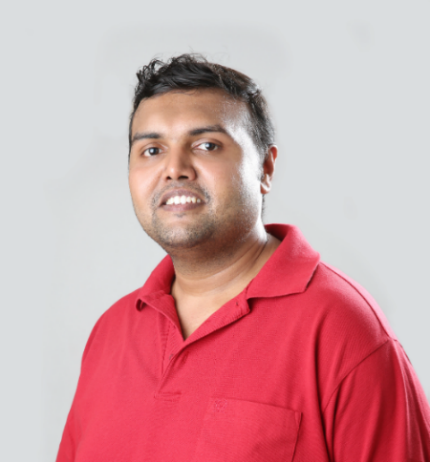
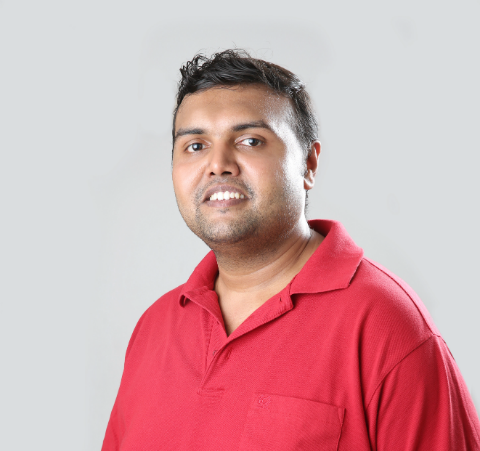
published new posts on web accessibility and html5 history and also naming things

diff --git a/_posts/2014-08-10-manipulate-browser-history-with-html5.html b/_posts/2014-08-10-manipulate-browser-history-with-html5.html
@@ -1,0 +1,142 @@
+---
+layout: post
+title:  "Manipulate Browser History Using HTML5 History API"
+date:   2014-08-06 14:47:19
+categories: "HTML5,History API"
+thumbImage: "/img/HTML5.png"
+author: "Aravind H.U"
+tags : "HTML5,History API,Session API"
+---
+<p>
+
+    HTML5 session history and navigation API basically inherits and extends the capabilities of the javascript history
+    object. Before Explaining session history and navigation API's let me describe what were the features which were
+    there in age old javascript history object.
+
+</p><p>
+    History object use to exhibit 3 behaviours, first one is the length() , which use to return the number of links in
+    the browser history stack.
+</p><p>
+    2nd one is forward() function which navigates to the next URL which was there in the browser if any, and last one is
+    the back() which just navigates to the previously visited page.
+</p><p>
+    HTML5 history and navigation API's adds some more behaviours,
+</p>
+<ol>
+    <li>
+        Add a URL to browser History stack.
+    </li>
+    <li>
+        Change the URL at the Top of the History stack.
+    </li>
+    <li>
+        Change the URL of the browser with out refreshing the page.
+    </li>
+    <li>
+        Allow access to catch the browser back button click event.
+    </li>
+</ol>
+
+<p>
+    From these behaviours we could observe, most of the issues that we were facing in the past when we build highly intractive AJAX based SPA ( single page application ) application are all solved .
+
+</p>
+<p>
+    We do not need to worry about having cool and complex URLs in AJAX applications, since we can manipulate the history API to load what ever URL that we want for every event .
+
+</p>
+<p>
+    Lets start experimenting some of the behaviours of new HTML5 history object .
+
+</p>
+<p>
+    The first most important method is pushState() method, It allows us to change the portion of the URL
+
+</p>
+<p>
+    Syntax ,
+</p>
+<div class="row">
+    <pre><code class="js">
+        history.pushState('restoreURL', 'page_title', 'yoururl_basename');
+
+    </code></pre>
+</div>
+ <p>
+     Example,
+ </p>
+<div class="row">
+    <pre><code class="js">
+        history.pushState(null, null, "newpage.html");
+    </code></pre>
+</div>
+
+<p>
+Here restortURL is the current URL of the webpage, and page_title is the page title of the URL that you want browser to show when the newpage.html is loaded.
+</p><p>
+Here the third argument is the most relevant and mandatory.
+</p>
+<p>
+The second most important event which is triggered is onPopState event, its an event which is triggered on javascript window object when back button is clicked .
+</p><p>
+The onPopState event is a javascript event which provides access to the current state of the browser stack, I meant If you imagine browser history as a stack it gives you the stack pointers location and its content.
+</p>
+        <p>
+            For example .
+        </p>
+
+<div class="row">
+    <pre><code class="js">
+
+        window.onpopstate = function(event) {
+
+        if(event.state != null)
+        {
+        // The browser has some thing in the stack and we have access to its current content
+
+        alert(event.state); // event.state is the top most URL in the browser history stack.
+
+        }
+
+        };
+    </code></pre>
+</div>
+<p>
+Third and most rearely used API is replaceState() method .
+</p><p>
+It can be used to change the state information of the current page with out adding the URL to the history Stack .
+</p><p>
+Syntax  .
+</p>
+<div class="row">
+    <pre><code class="js">
+        window.history.replaceState( 'restoreURL' , 'title_to_use', 'url_to_replace' );
+    </code></pre>
+</div>
+<p>
+
+Here restorURL is same as pushstate, but title which is the secound argument, is ignored by most of the browsers, though it is mentioned in the specification.
+
+</p>
+        <h4>
+            Browser compatibility
+        </h4>
+
+        <p>
+You can observe in some popular web applications like facebook and twitter, they switch back to hashbangs when browser is not supporting History API.
+        </p><p>
+So if your target audiance wants to access your application in IE8 and IE9 then its not advisable to use HTML5 history API's itself, to take decisions you can use an wonderful website called caniuse.com
+</p><p>
+You can load the below URL and see if this matches all your requirements .
+</p>
+  <p>
+      <a href="http://caniuse.com/history" target="_blank">http://caniuse.com/history</a>
+  </p>
+<p>
+    Alternatives to handle old browsers
+</p>
+
+<p>
+    There are some javascript libraries which handles history API issues or works as polyfills with old browsers, one such widely popular open source library is <a href="https://github.com/browserstate/history.js#aims" target="_blank">history.js you can clone it at github</a>
+</p>
+

diff --git a/_posts/2014-08-09-web-accessibility.html b/_posts/2014-08-09-web-accessibility.html
@@ -1,0 +1,60 @@
+---
+layout: post
+title:  "Web Accessibility Fundamentals, Principles and Practices "
+date:   2014-08-06 14:47:19
+categories: "HTML,W3C"
+thumbImage: "/img/wai-temp.png"
+author: "Aravind H.U"
+tags : "HTML,W3C"
+---
+
+
+<p>
+Before starting to explain Accessibility principles, Let me list down some questions which came to my mind and made me to learn this.
+</p><p>
+why should we make our web application accessible ? Is it possible for a web application to be in accessible ? Is there any part/module of your application cannot be accessible ?
+</p><p>
+For all these questions the answer is simply "NO", Because web 2.0 applications often exhibit a value called Ownit when it is served to client machines . I meant, when a web application is loaded in clients browser, then its owned by User, he can save/share/writedown/read OR can do what ever he wants with that, Worst case you can prevent replication using copyrights.
+</p><p>
+The whole set of accessibility principles are applied to address accessibility issues of the people who are suffering from some  disabilities, Disability can be visual, auditory, speech, or some birth defect or some impairment caused due to ageing.
+</p><p>
+Let me make a disclaimer before explaining these principles, You can never ever make your application accessible to all sorts of people, Hence I always suggest/prefer defining the target audiance of your application before building it. Since making an existing application accessible might be costly or might impact the functionality of your application .
+</p><p>
+This also doesn't mean, web application accessible for people with disability cannot be accessible by normal people. I just meant, things accessible for people with disability will always be by default accessible for normal people :) .
+</p>
+<p>
+Government of United states, had come up with <a href="https://www.section508.gov/" target="_blank">Section 508</a>, in 1998, which was enacted to eliminate barriers in information technology, It was an ammendment to rehabilitation act of 1973. This is applicable only for federal agencies.
+</p><p>
+The <a href="https://www.section508.gov/section-508-standards-guide#Web" target="_blank">subpart B of section 508 </a> talks about technical standards, and it also defines 16 rules for Web-based intranet and internet information and applications.
+</p><p>
+To know the 16 rules, you can refer to the section document at <a href="https://www.section508.gov/section-508-standards-guide#Web" target="_blank">section508 website</a>.
+</p><p>
+Offcourse this is just an initiative by US govt, to eliminate barriers in Information technology, when it comes to globalization of accessibility standards, W3C has come up with an initiative called web accessibility initiative, they published web content accessibility guidelines ( WCAG ) in 1999.
+</p><p>
+Most of the countries which has E-governance in place does not have there own standard like section 508 but all this countries relay on WCAG  .
+</p>
+<p>
+Currently version 2.0 of WCAG guidelines are available and stable, most of the websites today follow 1.0 guidelines .
+</p>
+<p>
+To know the differences between 2.0 and 1.0 please refer to <a href="http://www.w3.org/WAI/WCAG20/from10/diff.php" target="_blank">WCAG documentation on differences.</a>
+</p>
+<p>
+WCAG 2.0 has four main principles : -
+</p>
+ <ol>
+
+   <li><a href="http://www.w3.org/TR/WCAG20/#perceivable" target="_blank">Perceivable</a></li>
+     <li><a href="http://www.w3.org/TR/WCAG20/#operable" target="_blank">Operable</a></li>
+    <li><a href="http://www.w3.org/TR/WCAG20/#understandable" target="_blank">Understandable</a></li>
+     <li><a href="http://www.w3.org/TR/WCAG20/#robust" target="_blank">Robust</a></li>
+
+ </ol>
+        <p>
+
+            I donot need to discuss each of them, because the WCAG documentation has the best explaination, please go to through the hyperlinks to learn more
+            about each of them .
+        </p>
+<p>
+    You can also refer to Complete <a href="http://www.w3.org/TR/WCAG20/" target="_blank">W3C documentation of WCAG 2.0 </a>from W3C website .
+</p>

diff --git a/_posts/2014-08-08-naming-things.html b/_posts/2014-08-08-naming-things.html
@@ -1,0 +1,80 @@
+---
+layout: post
+title:  "Naming Things In Software Development"
+date:   2014-08-08 14:47:19
+categories: "general"
+thumbImage: "/img/namethings.jpg"
+author: "Aravind H.U"
+tags : "software,standards,coding-standards,development"
+---
+<p>
+    When we start building a new web application, we actually should build standards first before we plan any thing
+    related to application structure or configuration or file structure etc ..
+</p><p>
+    So one such standard which is very much important is naming things.
+</p><p>
+    All stakeholders of any project should come to an agreement on how we name things through out the product life
+    cycle.
+</p><p>
+    When I say, naming things, I meant, naming any thing, it might be your function, class , variable, file, logfile,
+    vhost name, folder etc ..
+</p>
+
+<p>
+    In this post I would like to list some of the best rules that I felt as good to have .
+</p>
+
+<ol>
+    <li>
+        Use no spaces when you name any thing.
+    </li><li>
+    Replace space with either snake case it or add underscore or you an add an hypen but not recommended .
+</li>
+    <li>
+    Keep it short, and meaningful, for eg, instead of calling a function as clear_data_from_tables, you can say bus_tables, Here you can observe bus means clean and it actually make sense but little difficult but still it is short and meaningfull .
+    </li>
+    <li>
+    Do not append numbers, for example if we have a function called  clear_data1 and another function called clear_data2 with different functionality, then its really bad because it is a pain in the ass for any person who works on this code in future.
+    </li>
+    <li>
+    Try to name as much as possible with lowercase, because uppercase characters has its own platform and language specific status.
+    </li>
+    <li>
+    Make sure what ever files that you expect application to create has some extension, it helps a lot during debugging.
+    </li>
+    <li>
+    Use only alphanumeric characters
+    </li>
+    <li>
+    Last but not least,  Make sure every stackholder follows this
+    </li>
+</ol>
+<p>
+    One interesting question, is expected, i.e
+</p>
+
+        <blockquote>
+            Why should we name things well ?
+        </blockquote>
+<p>
+    Software development is all about, describing and expressing solutions. When we join a project as a stakeholder,
+    then first thing what we see is the code or technical specifications or an UML diagram or best case Agile User
+    stories.
+
+</p>
+<p>
+    When we see them the only means that we can get insights about the application functionality is by exploiting the
+    naming system which is followed. So that works as a capsule for any new guy entering the project, and the capsule is
+    built by the team who started the application from scratch by having ground rules to name things.
+
+</p>
+<p>
+    If you have ever reviewed some of the postings in <a href="http://www.codingconfessional.com/">codingconfessional.com</a> most of the postings are indirectly related
+    to naming.
+
+</p>
+<p>
+    The best way to learn to name things is by renaming things as much as possible and testing its readability and
+    simplicity with the stakeholders :)
+</p>
+

diff --git a/_includes/github_forkme.html b/_includes/github_forkme.html
@@ -1,3 +1,3 @@
-<a href="https://github.com/aravind666" target="_blank">
+<a href="https://github.com/aravind666" target="_blank" class="hide-for-small">
     <img style="position: absolute; top: 0; left: 0; border: 0;" src="https://camo.githubusercontent.com/121cd7cbdc3e4855075ea8b558508b91ac463ac2/68747470733a2f2f73332e616d617a6f6e6177732e636f6d2f6769746875622f726962626f6e732f666f726b6d655f6c6566745f677265656e5f3030373230302e706e67" alt="Fork me on GitHub" data-canonical-src="https://s3.amazonaws.com/github/ribbons/forkme_left_green_007200.png">
 </a>

diff --git a/_posts/2014-08-02-angular-js-terminologies-for-starters.html b/_posts/2014-08-02-angular-js-terminologies-for-starters.html
@@ -39,7 +39,7 @@ tags : "Javascript,AngularJS,MVC,IIFE,framework,SOLID"
 
 
 <div class="row">
-        <pre><code class="php">
+        <pre><code class="js">
             $("#somedivid").click(function ()
             {
             alert("hey you clicked");
@@ -88,7 +88,7 @@ tags : "Javascript,AngularJS,MVC,IIFE,framework,SOLID"
     which is evaluated to ExampleController
 </p>
 <div class="row">
-    <code><pre class="html">
+    <code><pre class="js">
     (function () {
 
     // IIFE block

diff --git a/aboutme.html b/aboutme.html
@@ -8,7 +8,7 @@ permalink: /aboutme/
     <div class="large-12 columns">
         <div class="row">
             <div class="large-6 columns">
-                <img src="/img/aravind_udayashankara.png"><br>
+                <img src="/img/aravind_udayashankara.jpg"><br>
             </div>
             <div class="large-6 columns">
                 <h3 class="show-for-small">About Me

diff --git a/blog.html b/blog.html
@@ -4,7 +4,7 @@ title: Aravind Udayashankara's Blog
 permalink: /blog/
 ---
 
-<div class="row fullWidth">
+<div class="row">
     <div id="container" class="transitions-enabled large-centered clearfix">
         {% for post in site.posts %}
         <div class="box col2">
